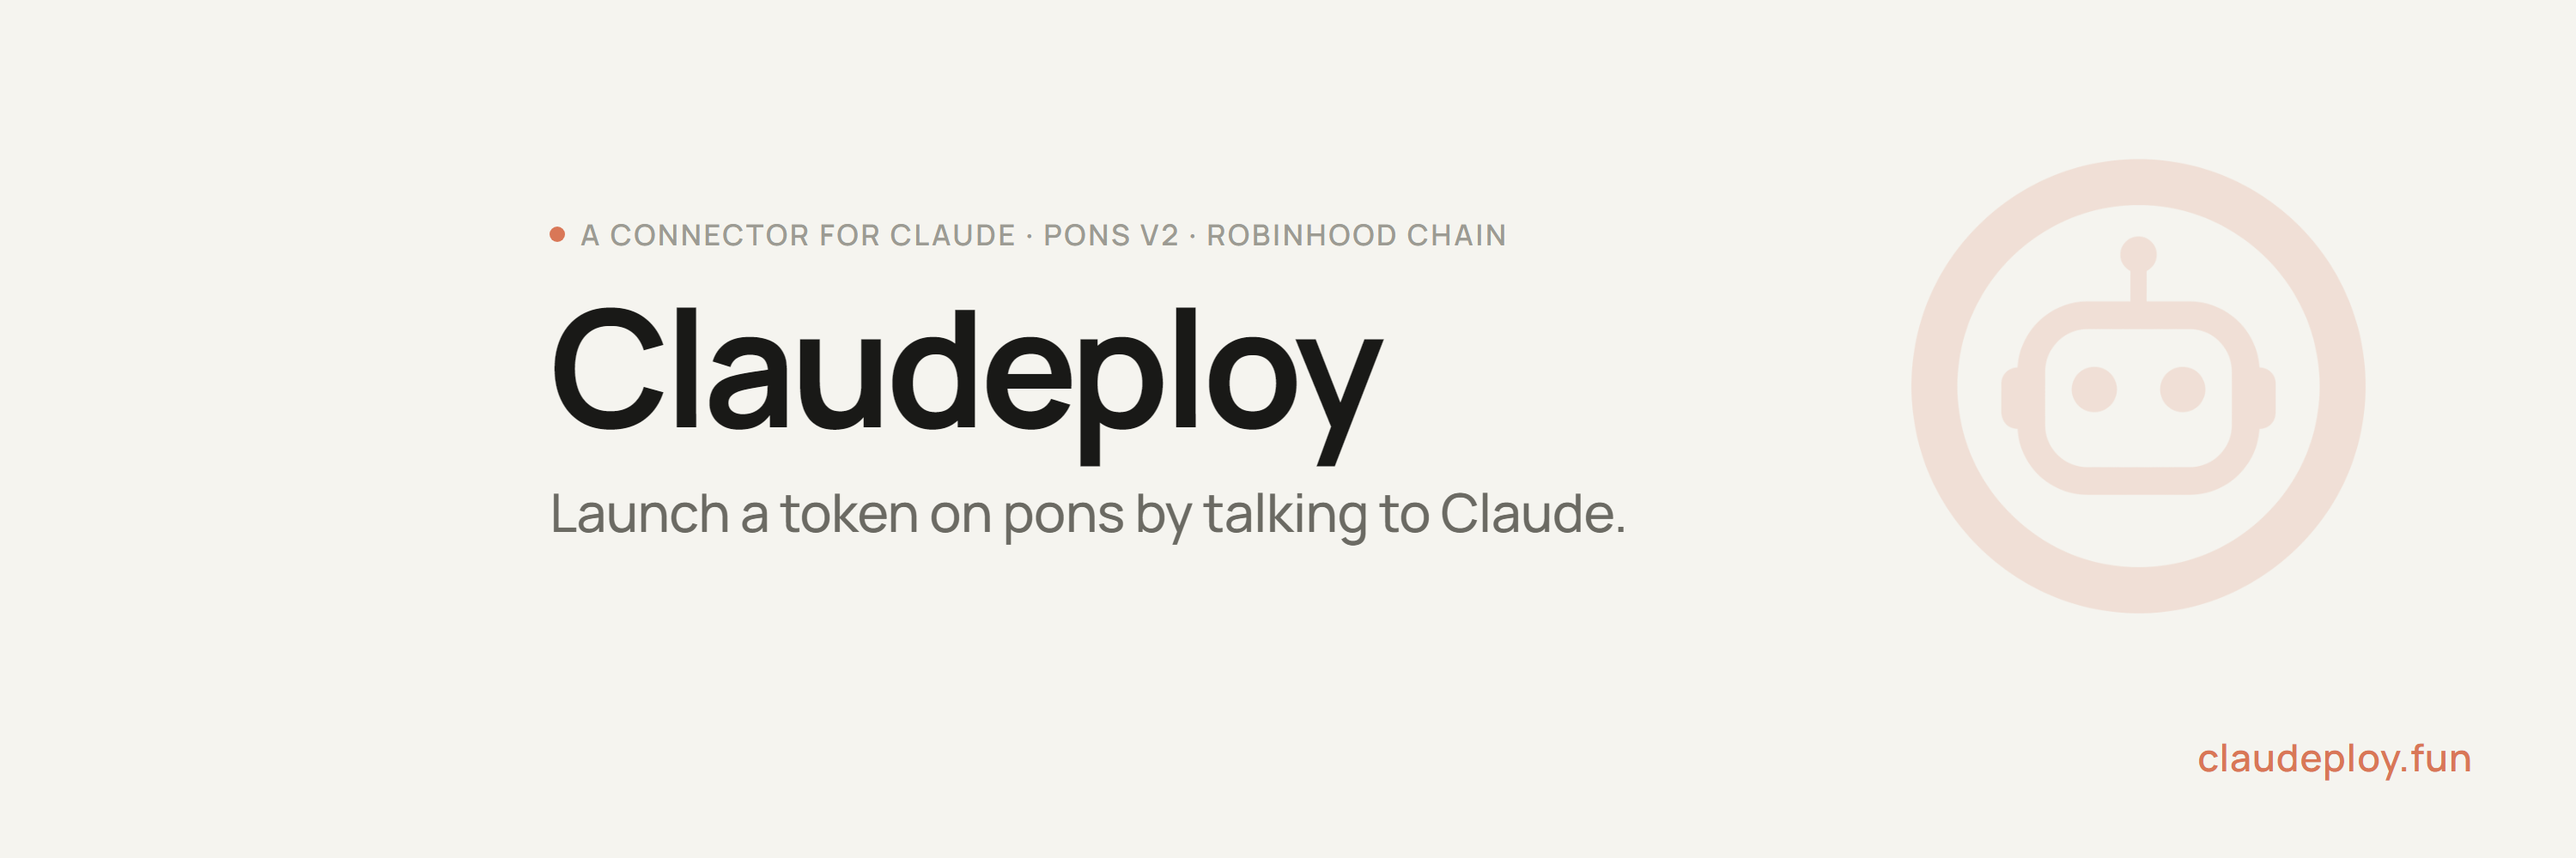
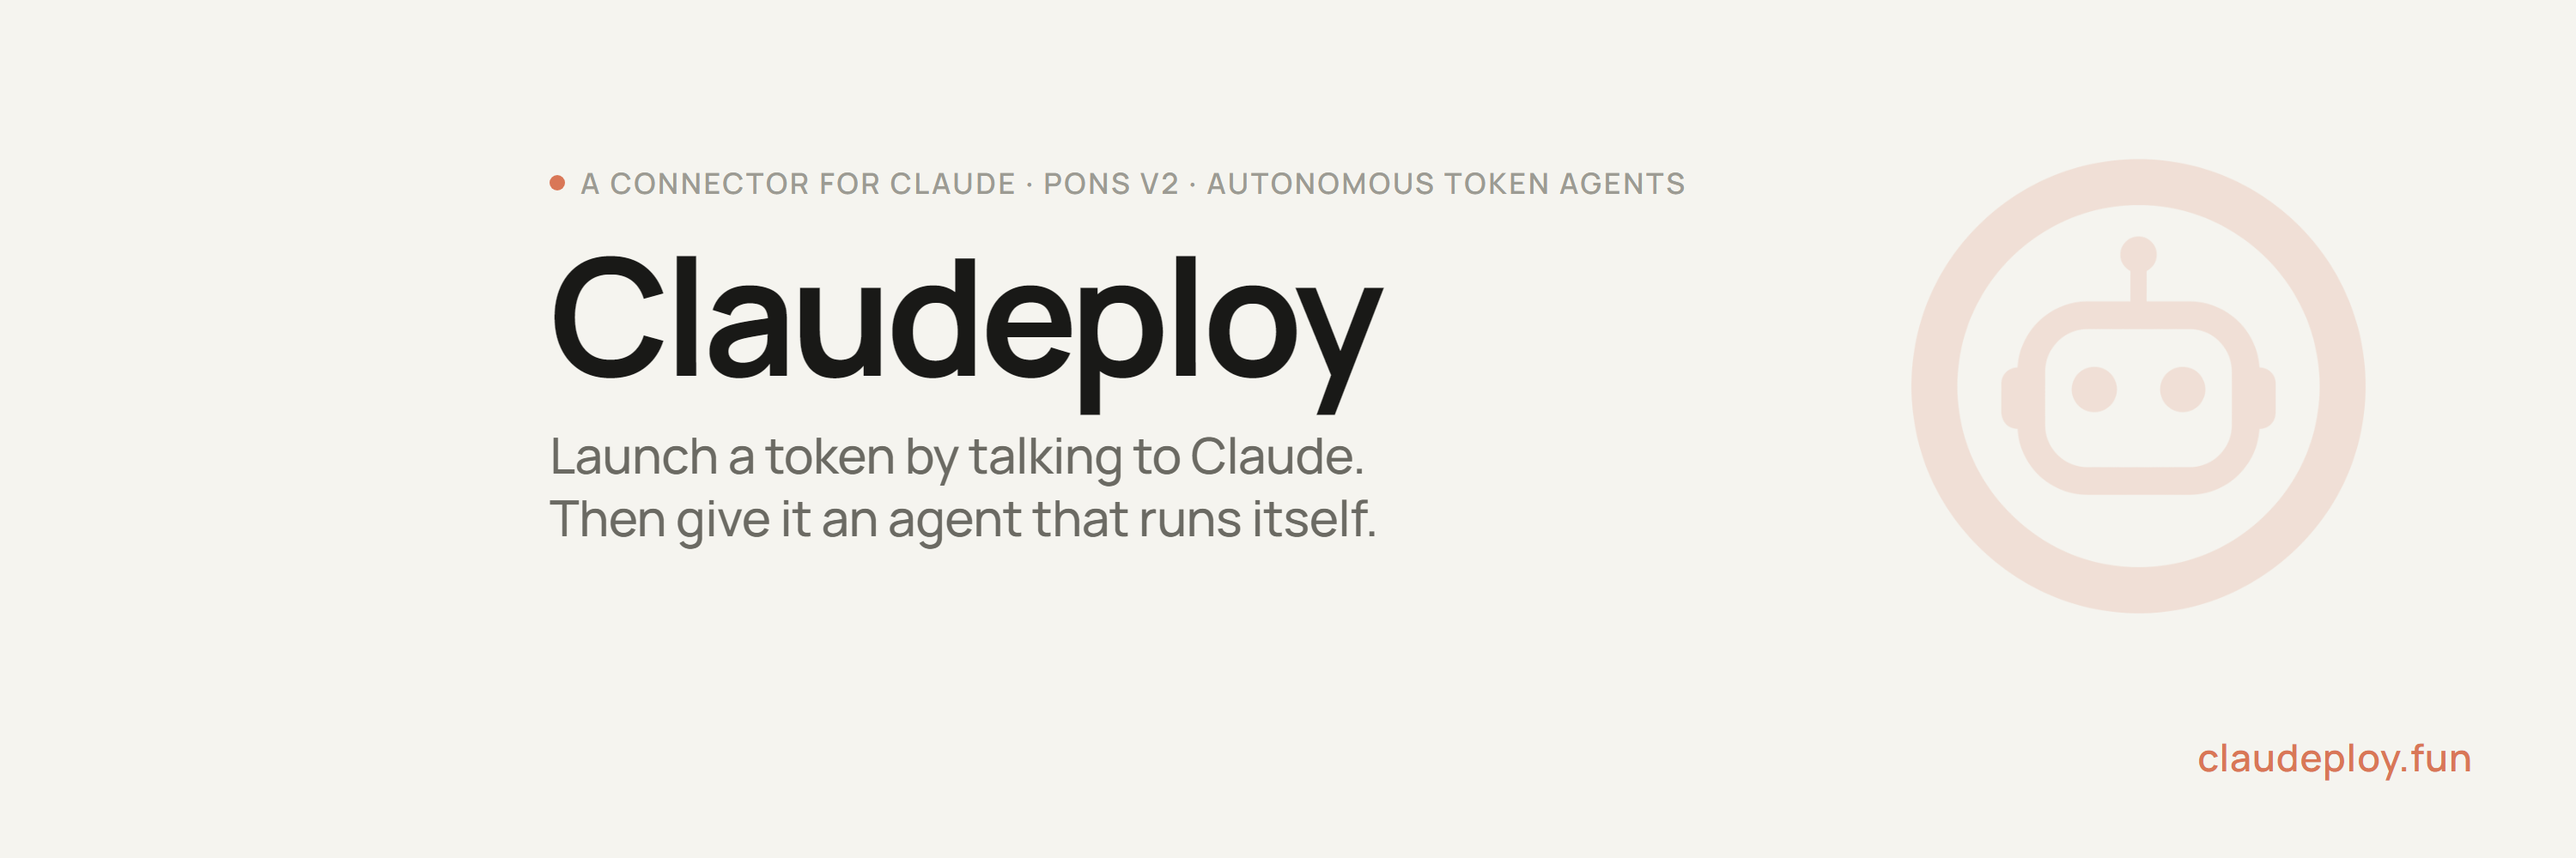
Copy: agents in the title, lead, meta, footer and X cover

Changed region(s): [[0.217, 0.186, 0.651, 0.651]]

diff --git a/public/index.html b/public/index.html
@@ -3,8 +3,8 @@
 <head>
   <meta charset="utf-8">
   <meta name="viewport" content="width=device-width, initial-scale=1">
-  <title>Claudeploy — launch a token on pons by talking to Claude</title>
-  <meta name="description" content="Describe a token to Claude, check the terms, sign once in your own wallet. Live on pons, Robinhood Chain. No forms, no keys handed over.">
+  <title>Claudeploy — launch a token by talking to Claude, then give it an agent</title>
+  <meta name="description" content="Describe a token to Claude, sign once, it is live on pons. Then give it an agent: a wallet of its own that collects the creator fees, buys back, burns, airdrops and posts, with no one approving anything.">
   <link rel="preconnect" href="https://fonts.googleapis.com">
   <link rel="preconnect" href="https://fonts.gstatic.com" crossorigin>
   <link href="https://fonts.googleapis.com/css2?family=Manrope:wght@400;500;600;700&display=swap" rel="stylesheet">
@@ -18,9 +18,9 @@
   <main>
     <section class="hero">
       <div class="wrap">
-        <div class="kicker"><i></i> A connector for Claude · pons v2 · Robinhood Chain</div>
-        <h1>Launch a token on pons<br>by talking to Claude.</h1>
-        <p class="lead">Describe it. Check the terms. Sign once in your own wallet. Claudeploy builds and simulates the transaction; your keys never leave your wallet.</p>
+        <div class="kicker"><i></i> A connector for Claude · pons v2 · autonomous token agents</div>
+        <h1>Launch a token by talking to Claude.<br>Then let it run itself.</h1>
+        <p class="lead">Describe it, sign once, it is live on pons. Give it an agent and the token gets a wallet of its own: it collects its creator fees, buys back and burns, airdrops holders and posts about it. No approvals, no dashboard to babysit.</p>
         <div class="actions">
           <a class="btn accent" href="#connect">Add to Claude</a>
           <a class="btn ghost" href="/how">See how it works</a>
@@ -108,7 +108,7 @@
     <section class="section">
       <div class="wrap grid c2">
         <div>
-          <div class="kicker"><i></i> New</div>
+          <div class="kicker"><i></i> The agent</div>
           <h2>Give your token an agent.</h2>
           <p class="muted">Say "give OWL an agent". Sign once to hand it the creator fees. From then on the token runs its own wallet: it collects fees, buys itself back and burns, airdrops recent buyers, keeps a gas reserve, and posts about it. No approvals, no caps, no dashboard to babysit.</p>
           <p class="muted">Posts appear on the agent's public page with a copy button. Connect your own X API keys and it posts from your account by itself.</p>

diff --git a/public/how.html b/public/how.html
@@ -4,7 +4,7 @@
   <meta charset="utf-8">
   <meta name="viewport" content="width=device-width, initial-scale=1">
   <title>How it works · Claudeploy</title>
-  <meta name="description" content="From a sentence in Claude to a live token on pons: add the connector, describe the token, check the preview, sign once, get the contract address back in the chat.">
+  <meta name="description" content="From a sentence in Claude to a live token on pons, and then to an agent that runs it: add the connector, describe the token, check the preview, sign once, hand the fees to the agent.">
   <link rel="preconnect" href="https://fonts.googleapis.com">
   <link rel="preconnect" href="https://fonts.gstatic.com" crossorigin>
   <link href="https://fonts.googleapis.com/css2?family=Manrope:wght@400;500;600;700&display=swap" rel="stylesheet">
@@ -18,7 +18,7 @@
     <section class="hero" style="padding-bottom:20px">
       <div class="kicker"><i></i> How it works</div>
       <h1 style="font-size:clamp(34px,5vw,54px)">From a sentence to a live token.</h1>
-      <p class="lead">Five steps. Three of them are Claude's job. One is a click. One is a signature.</p>
+      <p class="lead">Five steps to a live token, one more to give it an agent. Most of them are Claude's job. Two are signatures.</p>
     </section>
 
     <section class="section tight">

diff --git a/public/site.js b/public/site.js
@@ -15,7 +15,7 @@
   const footer = document.getElementById('footer');
   if (footer) footer.innerHTML = `<div class="wrap">
     <div class="cols">
-      <div><a class="brand" href="/">${MARK}<span>Claudeploy</span></a><div class="small muted" style="margin-top:8px">Launch a token on pons by talking to Claude.</div></div>
+      <div><a class="brand" href="/">${MARK}<span>Claudeploy</span></a><div class="small muted" style="margin-top:8px">Launch a token by talking to Claude. Give it an agent that runs itself.</div></div>
       <div class="links">
         ${LINKS.map(([h, t]) => `<a href="${h}">${t}</a>`).join('')}
         <a href="/privacy">Privacy</a><a href="/terms">Terms</a>
